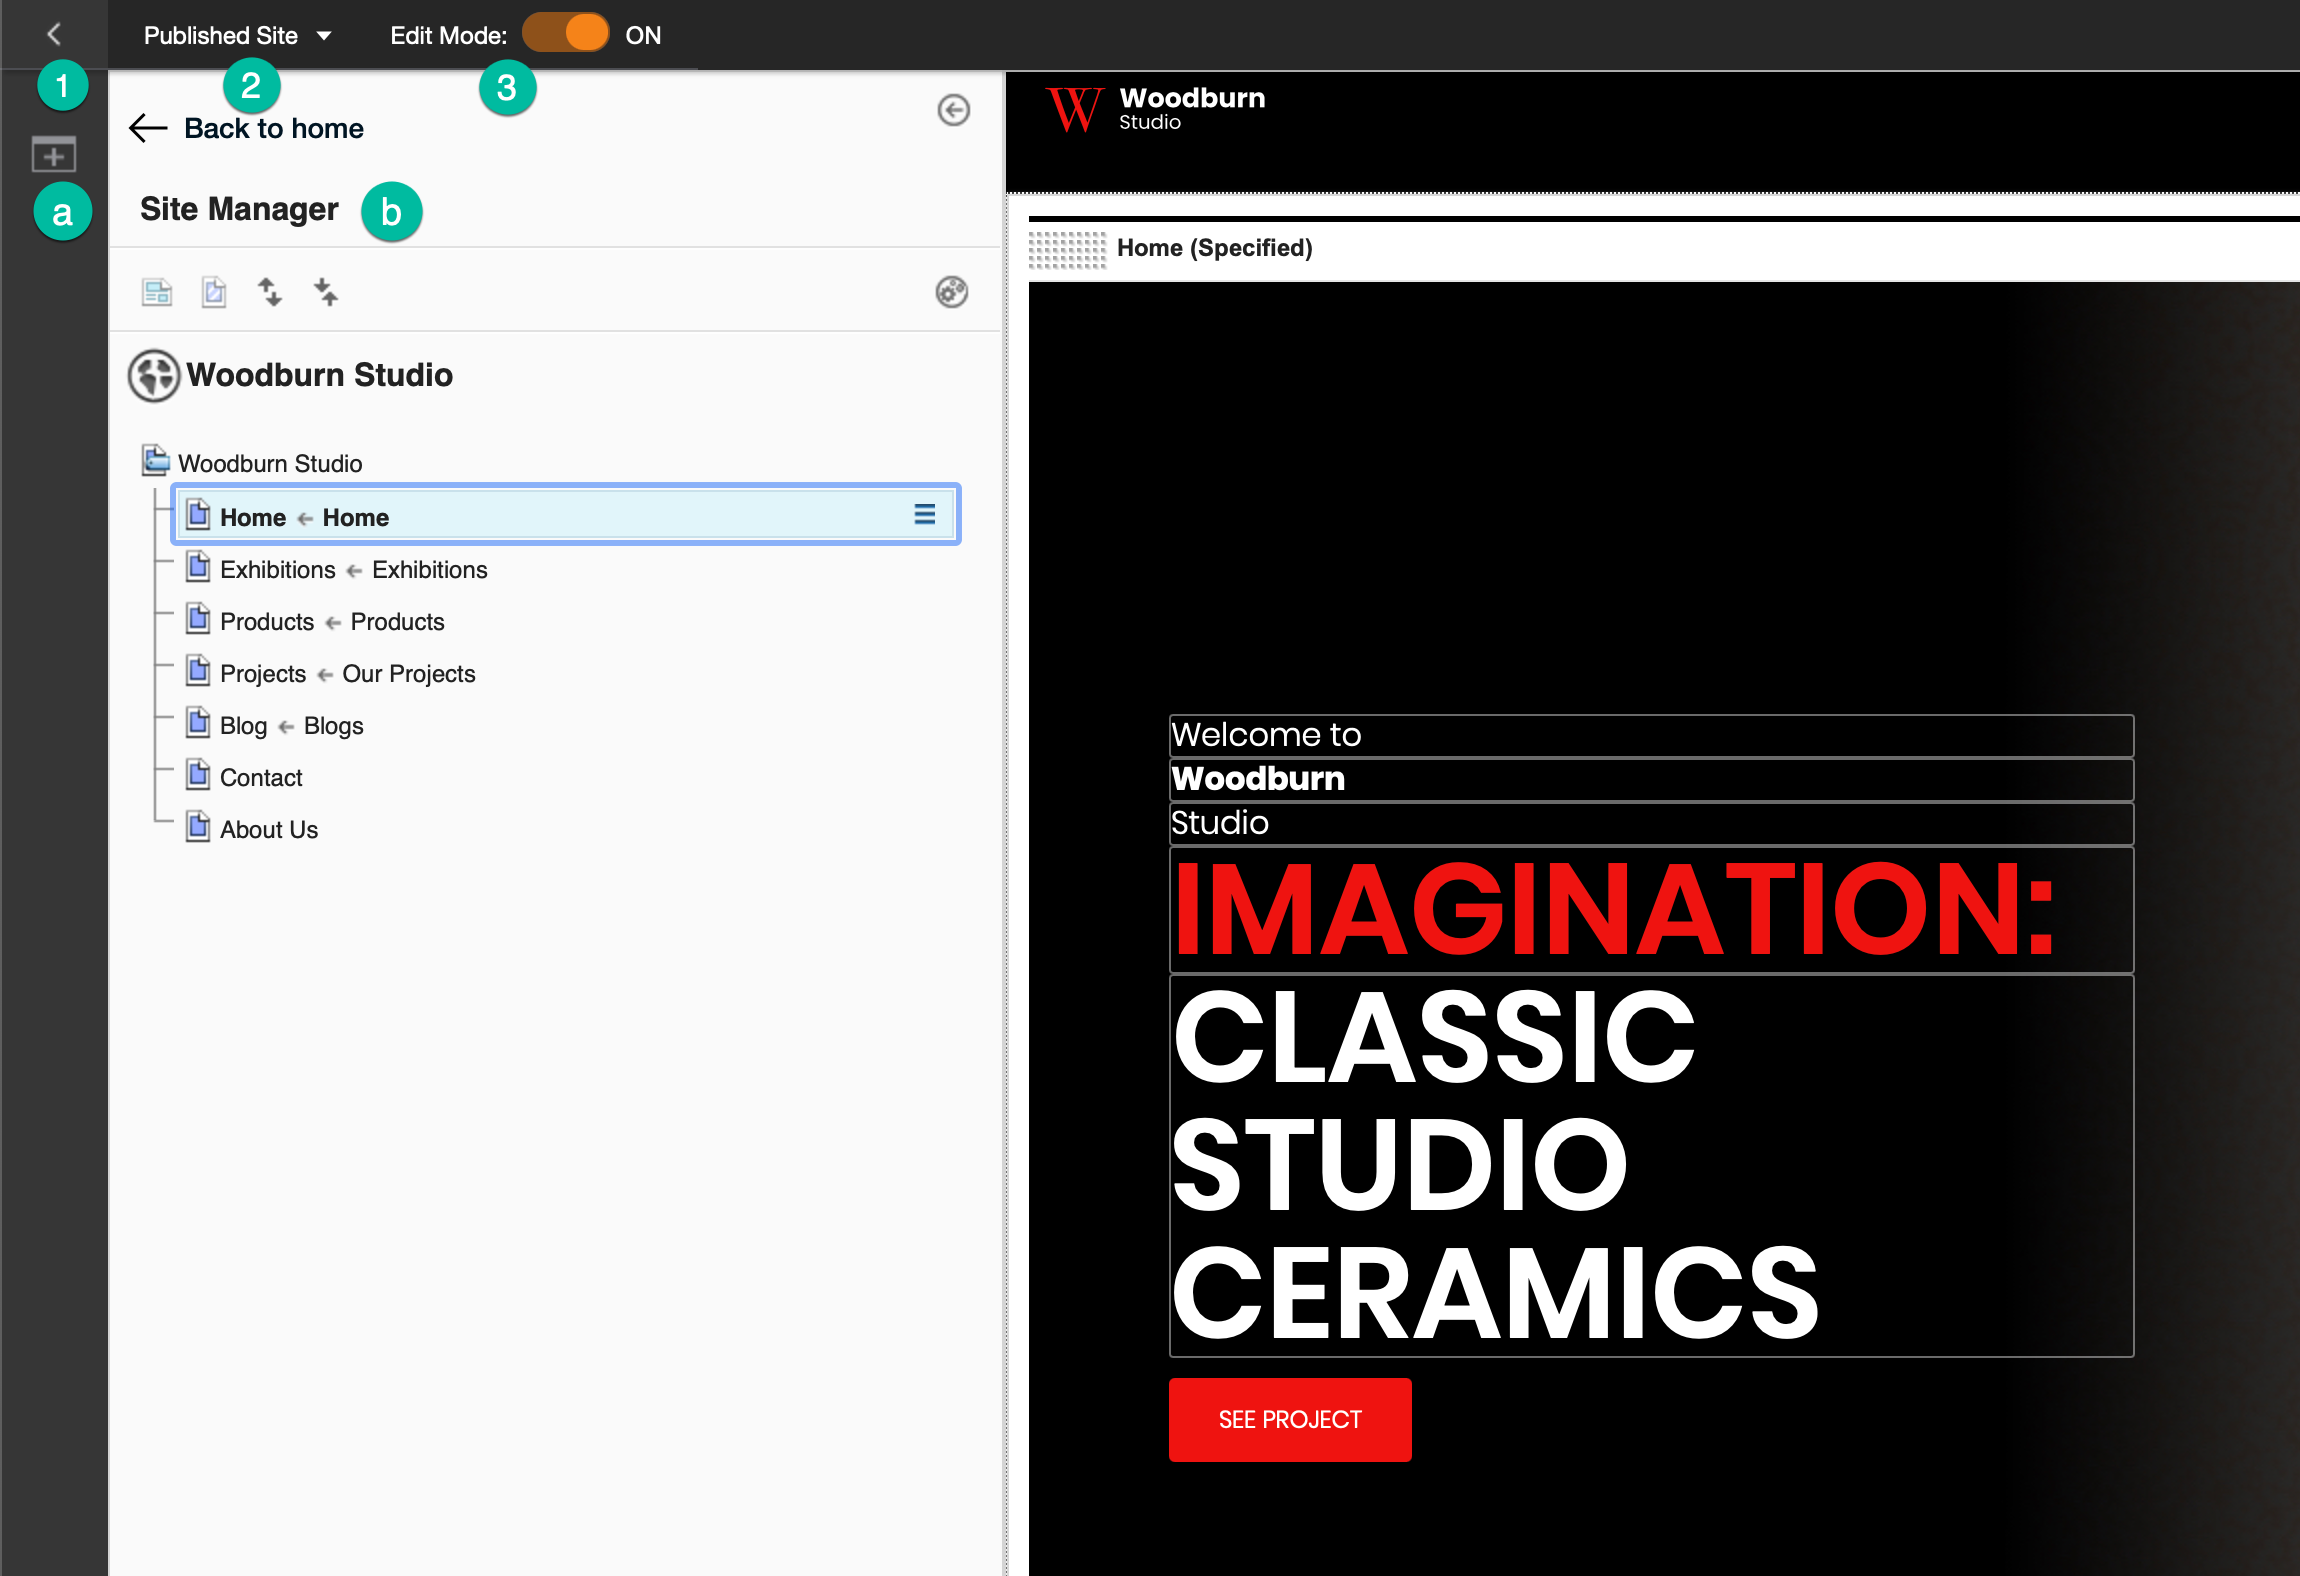
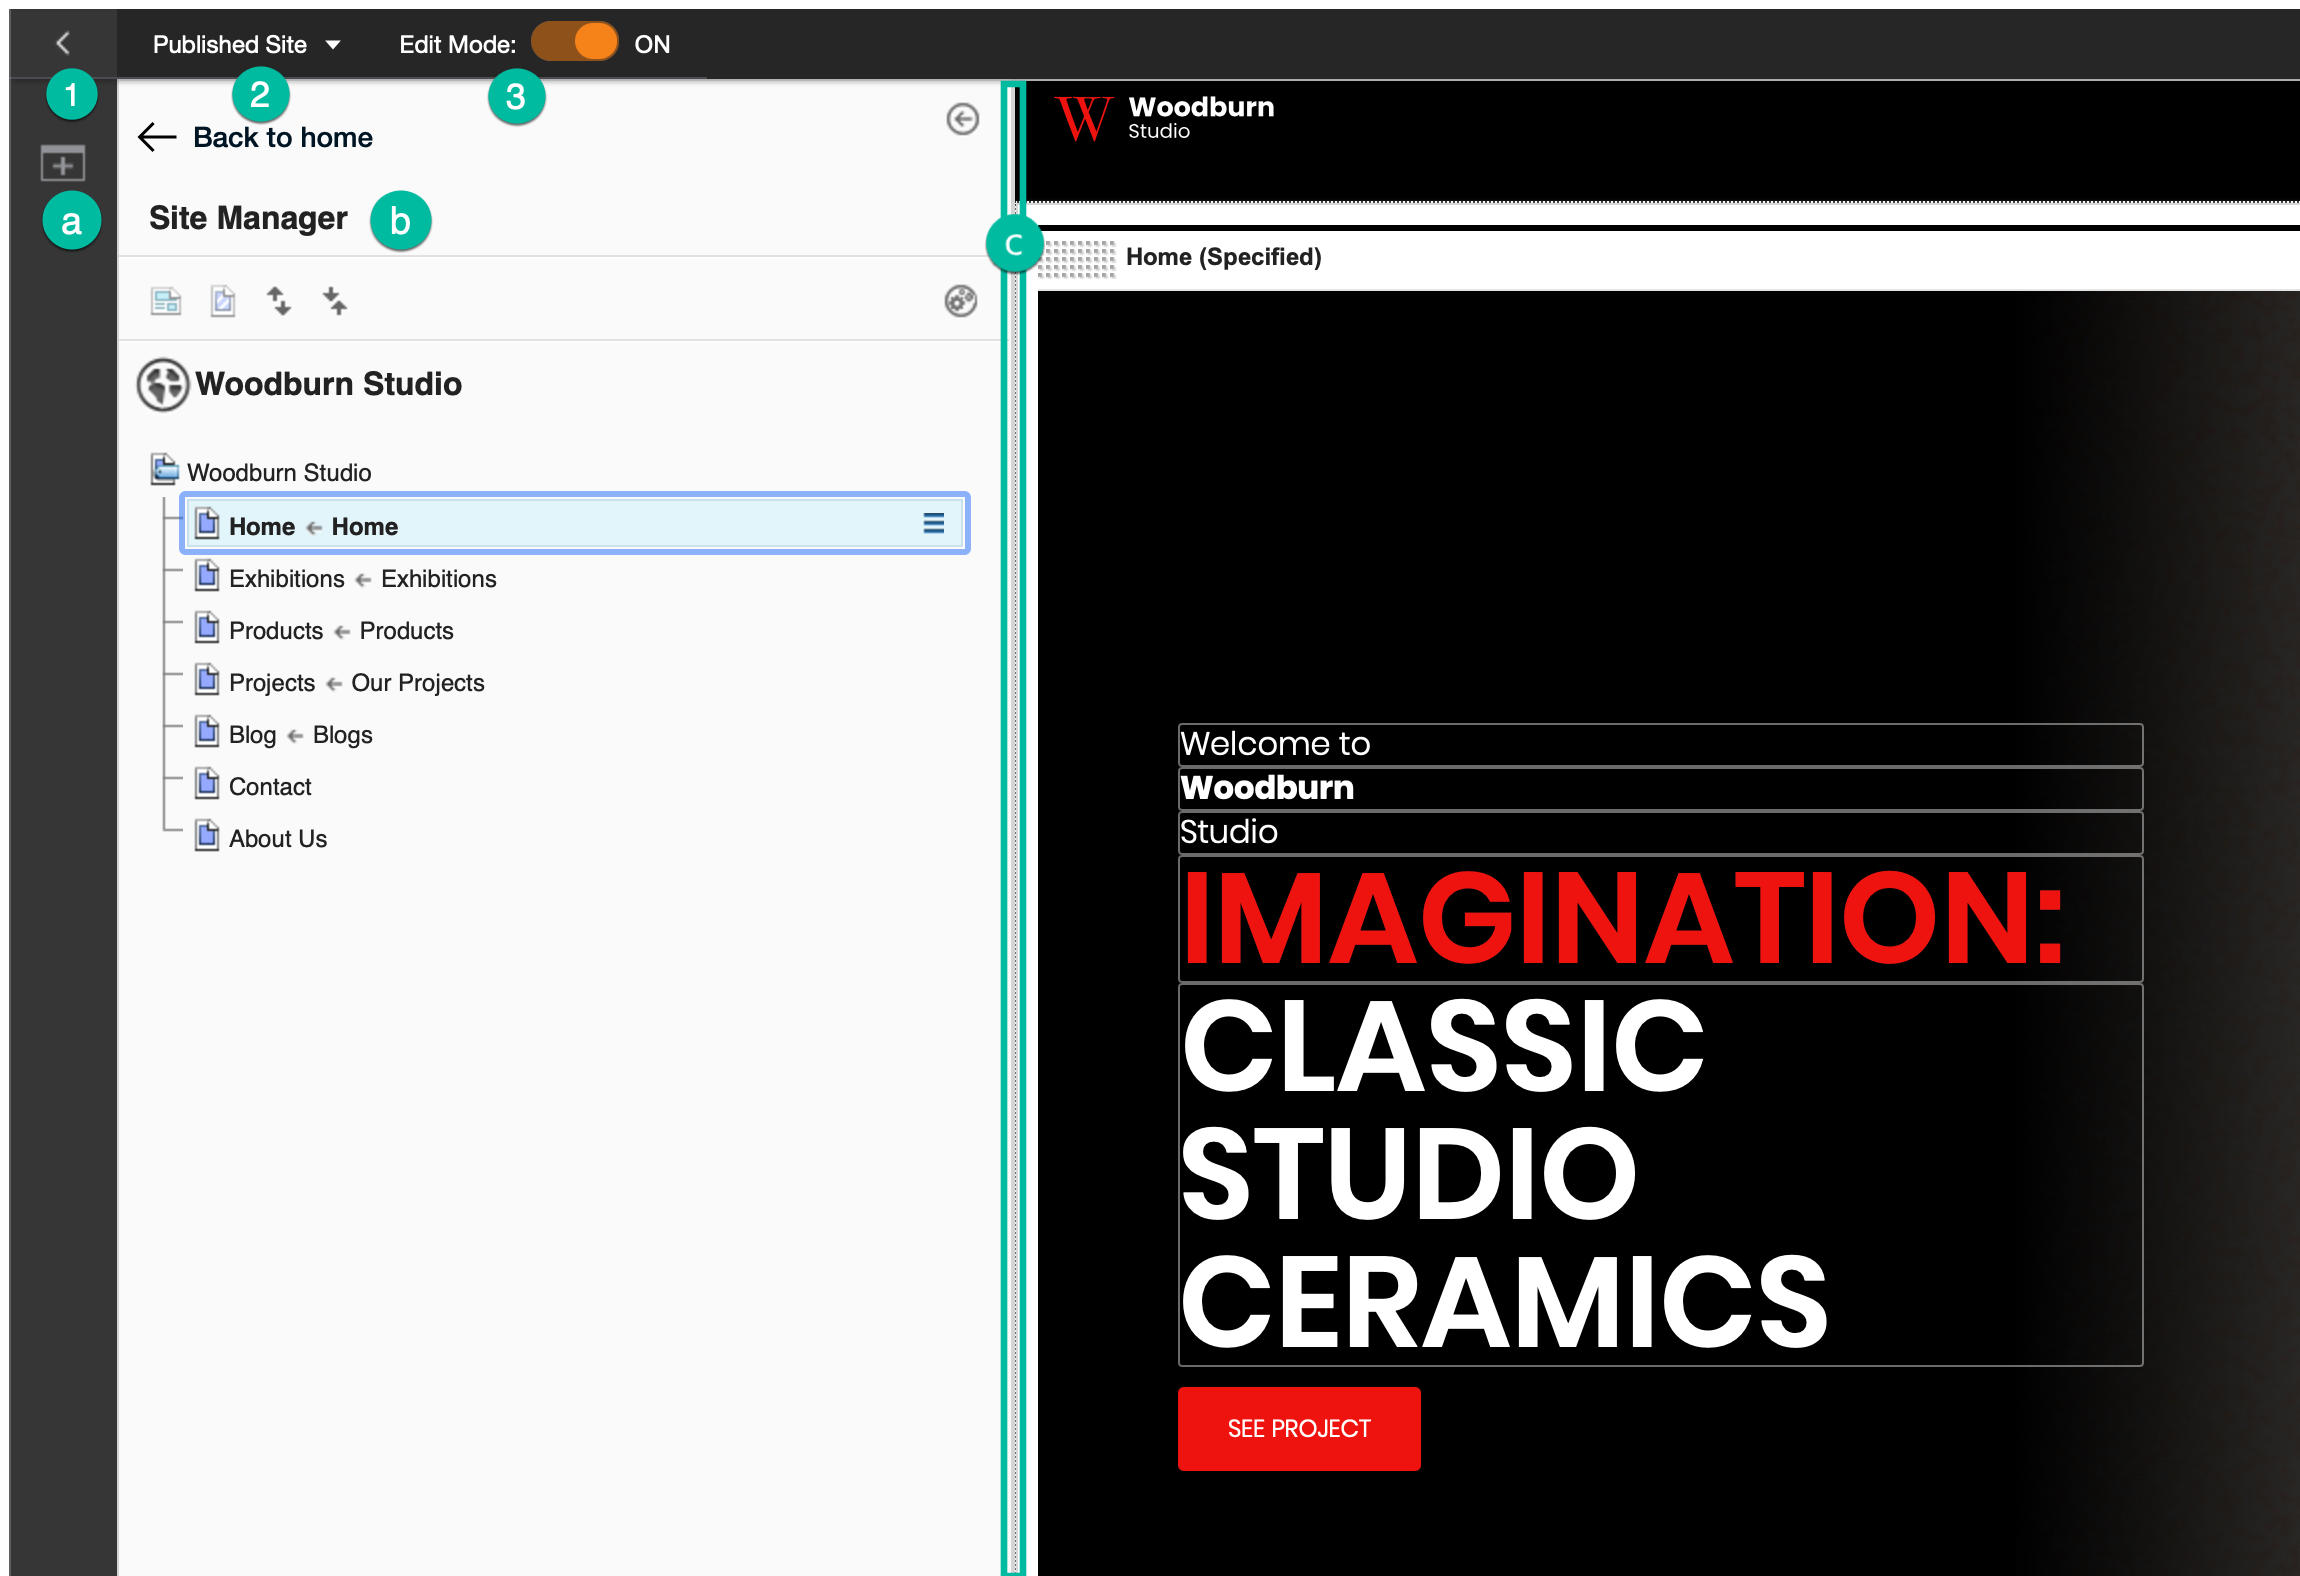
initial

Changed region(s): [[0.0, 0.0, 1.0, 1.0], [0.4939, 0.4353, 0.9261, 0.9327]]

diff --git a/docs/manage_content/wcm_authoring/inline_editing/index.md b/docs/manage_content/wcm_authoring/inline_editing/index.md
@@ -34,7 +34,7 @@ The following image shows you the different parts of the site toolbar.
         - For every item on the tree, you can click the **Context menu** icon to open the Context menu. This menu shows you more available actions for your selected page. 
 
     For more information, see [Adding reusable page components to your page](../../../build_sites/create_sites/adding_pages_content_more/toolbar_add_comp.md).
-
+    3. Allow you to control the size of the site toolbar
 2. Click this icon to open the **Project menu**. In a project, you can group content and page edits together to make managing and publishing related changes easier. From the **Projects menu**, you can create a new project or manage existing projects. For more information, see [Projects: Organizing and coordinating changes to your site](../../../build_sites/create_sites/adding_pages_content_more/projects_organizing_coord_chgs_site/index.md).
 
 3. Toggle this switch to go on or off Edit mode. Edit mode must be on to edit pages and content items in the website. When you turn on Edit mode, the site toolbar and Site Manager open automatically.
